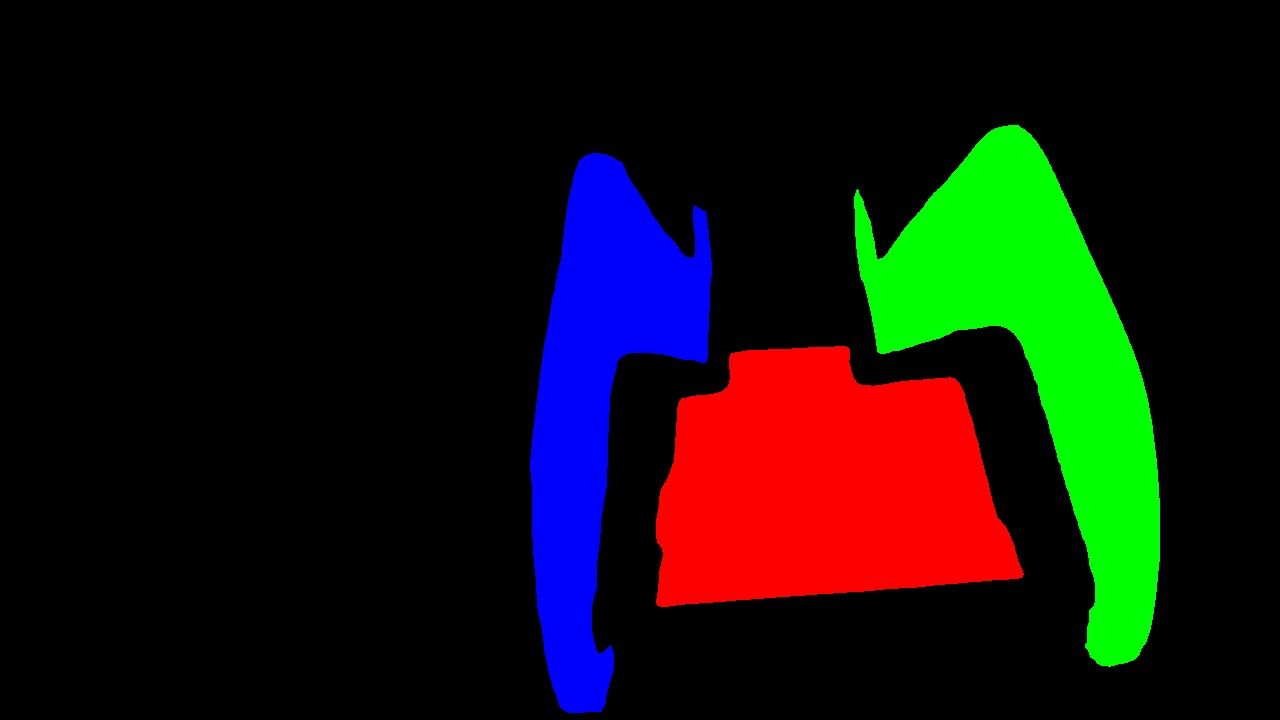
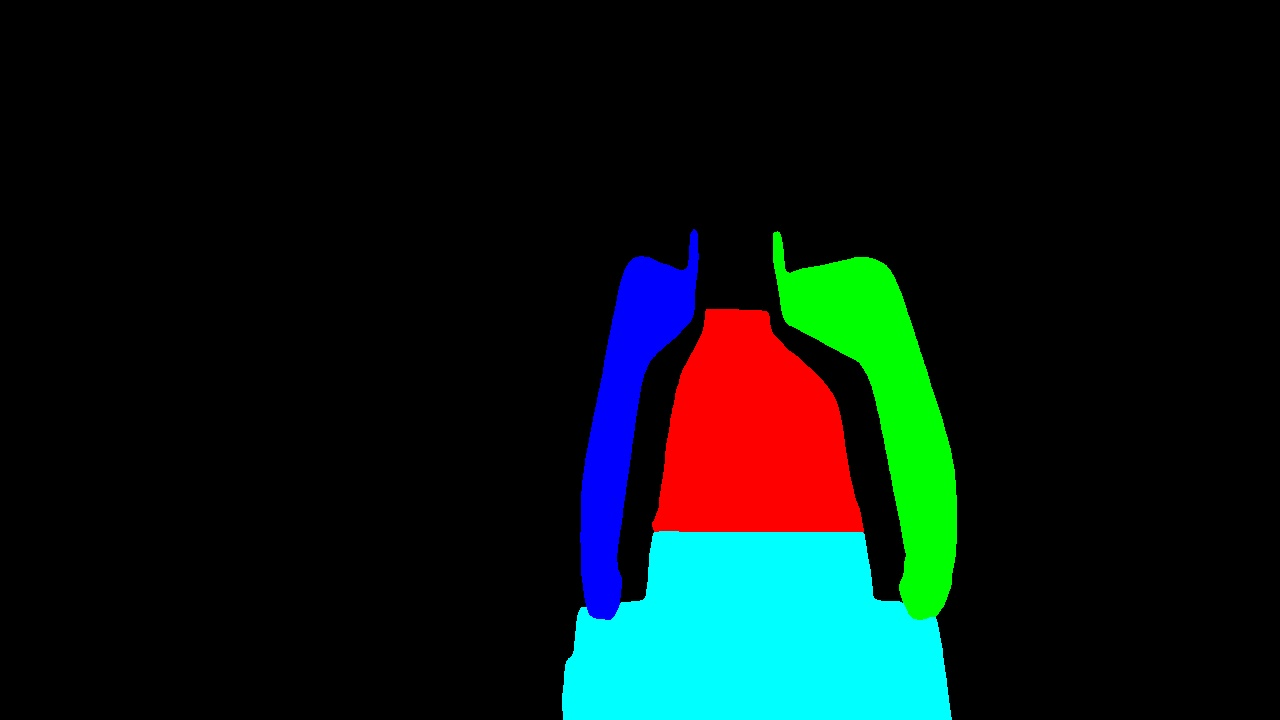
add new class 'floor plate'

Changed region(s): [[0.4062, 0.1528, 0.9062, 1.0]]

diff --git a/infer_onnx.py b/infer_onnx.py
@@ -6,7 +6,7 @@ import numpy as np
 from utils.utils import get_contour_approx,result2json
 
 colors = [[255, 0, 0], [0, 255, 0], [0, 0, 255], [255,255,0], [0, 0, 0]]
-classes = ['background','left baffle','right baffle','floor plate','step']
+classes = ['left baffle','right baffle','step','floor plate','background']
 train_id_to_color = np.array(colors)
 train_id_to_color = np.ascontiguousarray(train_id_to_color)
 
@@ -99,18 +99,17 @@ def infer_onnx_video(video_path,onnx_path):
 if __name__ == "__main__":
 
 
-    # img_path = "data/test.jpg"
-    # img_path = "D:/my file/project/扶梯项目/code/OpticalFlow-DirectionJudge/data/test.jpg"
-    # onnx_path = "weights/fcn_hrnetw18.onnx"
-    # infer_onnx(img_path,onnx_path)
+    img_path = "data/test.jpg"
+    onnx_path = "weights/fcn_hrnetw18_dynamic.onnx"
+    infer_onnx(img_path,onnx_path)
 
     # vid_path = r"data\down.mp4"
-    vid_path = r"D:\my file\project\扶梯项目\自采集数据\50b6d76b9aa1ef95b5704a29d835f2b1.mp4"
-    onnx_path = "weights/fcn_hrnetw18_dynamic.onnx"
-    infer_onnx_video(vid_path,onnx_path)
+    # vid_path = r"D:\my file\project\扶梯项目\自采集数据\50b6d76b9aa1ef95b5704a29d835f2b1.mp4"
+    # onnx_path = "weights/fcn_hrnetw18_dynamic.onnx"
+    # infer_onnx_video(vid_path,onnx_path)
 
     # img_path = r'D:\my file\project\扶梯项目\code\OpticalFlow-DirectionJudge\data\test.jpg'
-    # onnx_path = r"D:\my file\project\扶梯项目\测试\图像分割\code\weights\fcn_hrnetw18.onnx"
+    # onnx_path = r"D:\my file\project\扶梯项目\code\segmentation\weights\fcn_hrnetw18.onnx"
     # infer_onnx(img_path,onnx_path)
 
 

diff --git a/utils/utils.py b/utils/utils.py
@@ -18,7 +18,7 @@ except Exception as e:
 
 SEG_COLORS = [[255, 0, 0], [0, 255, 0], [0, 0, 255], [0, 0, 0]]
 colors = [[255, 0, 0], [0, 255, 0], [0, 0, 255],[0, 0, 0]]
-classes = ['left baffle','right baffle','step','background']
+classes = ['left baffle','right baffle','step','floor plate','background']
 train_id_to_color = np.array(colors)
 train_id_to_color = np.ascontiguousarray(train_id_to_color)
 
@@ -198,8 +198,8 @@ def get_contour_approx(pred,img,visual=False):
         approxs: 获取到的轮廓点集, list, 有三个元素, 对应左右挡板和梯路的区域轮廓
     '''
     h,w = pred.shape[:2]
-    approxs = {i:[] for i in classes[:3]}
-    for i in range(3):
+    approxs = {i:[] for i in classes[:4]}
+    for i in range(4):
         mask = np.where(pred==i,255,0).astype(np.uint8)
         # cv2.imshow('test',mask)
         # cv2.waitKey(0)
